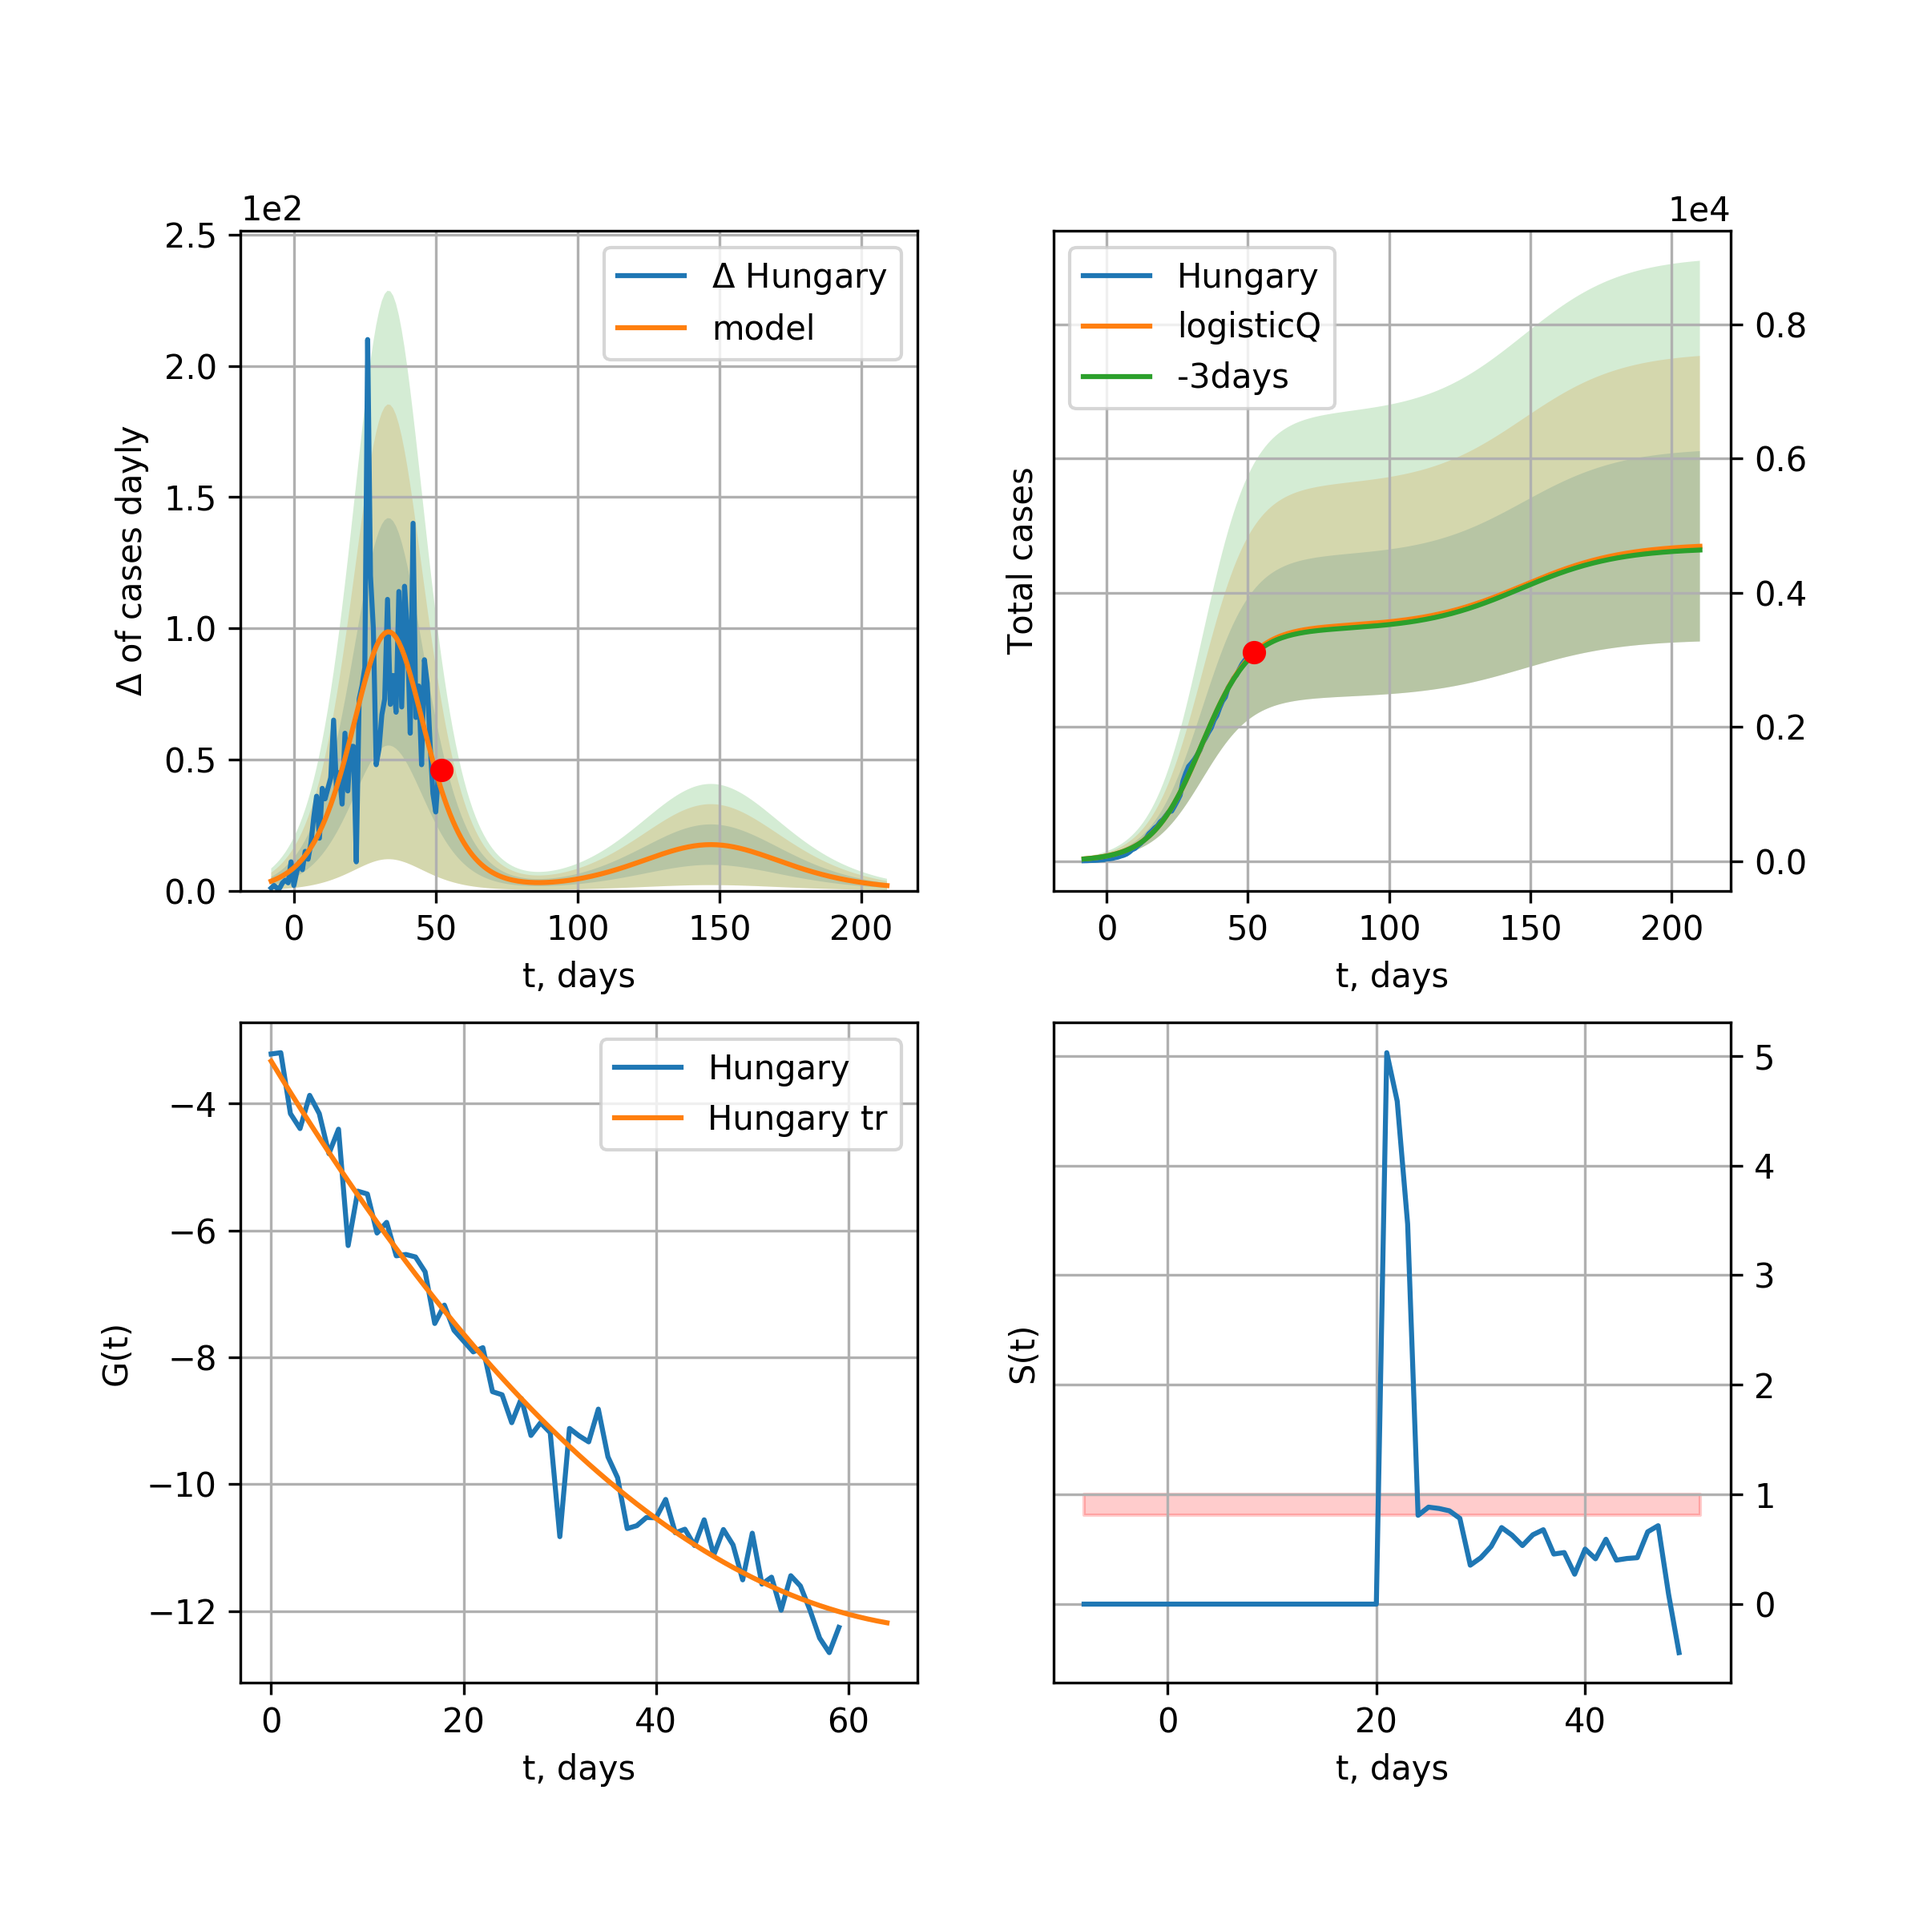
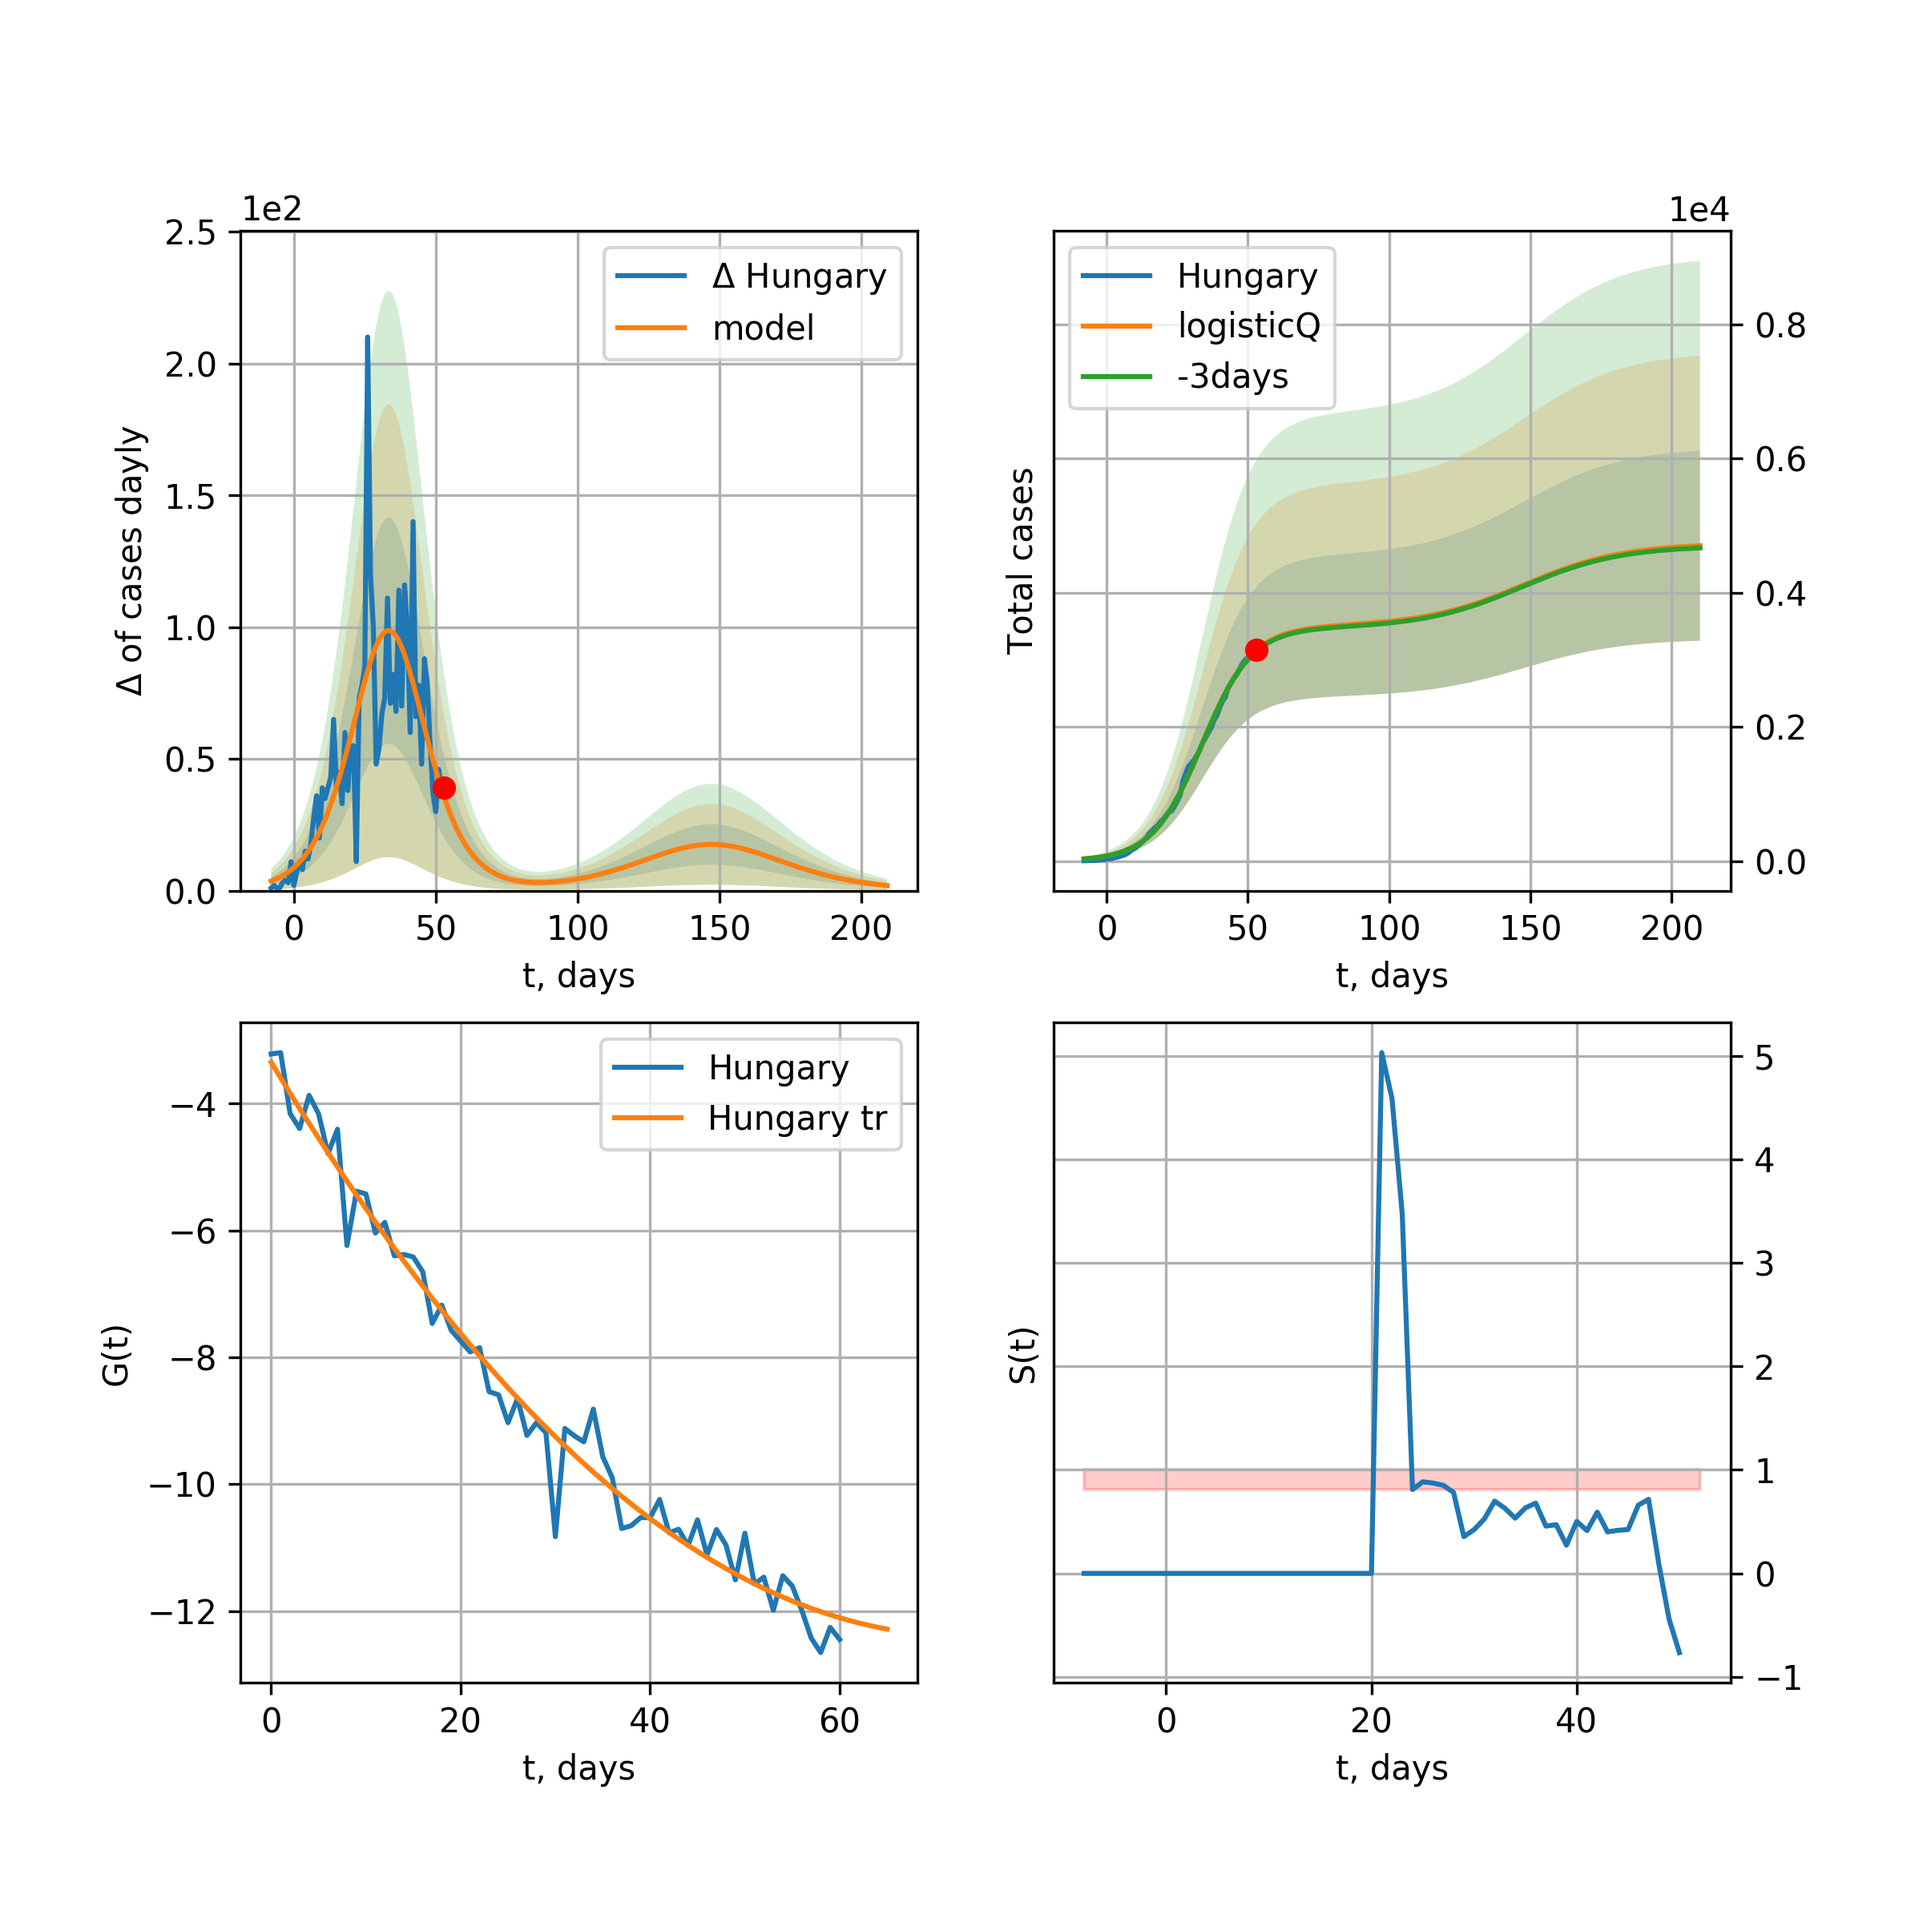
Hungary renew 2020-04-06

diff --git a/_site/index.html b/_site/index.html
@@ -1143,19 +1143,19 @@ trend coefficient of determination: 0.870649 <br />
     <br />
     <img src="pictures/covidcasesHungary35_Q.png" alt="hi" class="inline"/><br /> 
 
-      Hungary data at: 2020-05-05<br />
-+3 day model MAPE: 0.007322<br />
+      Hungary data at: 2020-05-06<br />
++3 day model MAPE: 0.004512<br />
 model: logisticQ<br />
-coeffs: [ 3.49051413e+03  2.85866410e-06  3.38316389e+01 -3.94897402e+04]<br />
+coeffs: [ 3.49740095e+03  2.98794374e-06  3.38740510e+01 -3.77159113e+04]<br />
 S.Korea scenario coeffs: [0.35416971, 0.02606324, 4.35859408, 19.30413219]<br />
-rational stdev: 0.302468<br />
-forecast at the end of period: +158 days<br />
+rational stdev: 0.301231<br />
+forecast at the end of period: +157 days<br />
 	 deltaDaycases: 1<br />
-	 total cases: 4692 ± 1419<br />
-	 total death: 562 ± 509<br />
-trend coefficient of determination: 0.975824 <br />
- intercept_: -3.3323740965411393 <br />
- coeffs_: [ 0.         -0.24996813  0.00174464]<br />
+	 total cases: 4701 ± 1416<br />
+	 total death: 563 ± 508<br />
+trend coefficient of determination: 0.976300 <br />
+ intercept_: -3.349457383191332 <br />
+ coeffs_: [ 0.         -0.24760078  0.00169468]<br />
           <br /> 
     
     Greece
